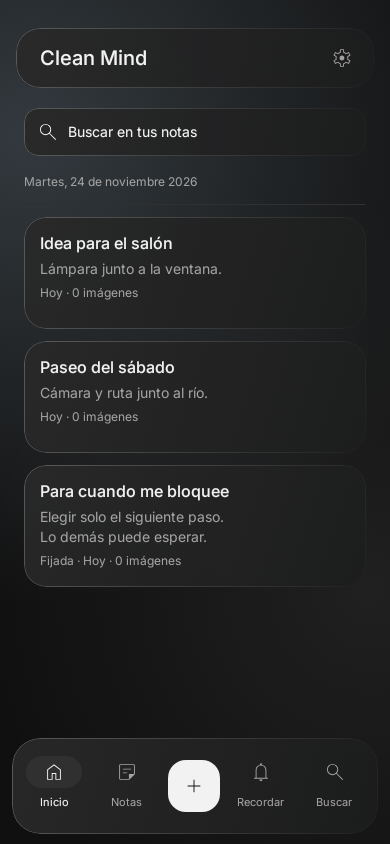
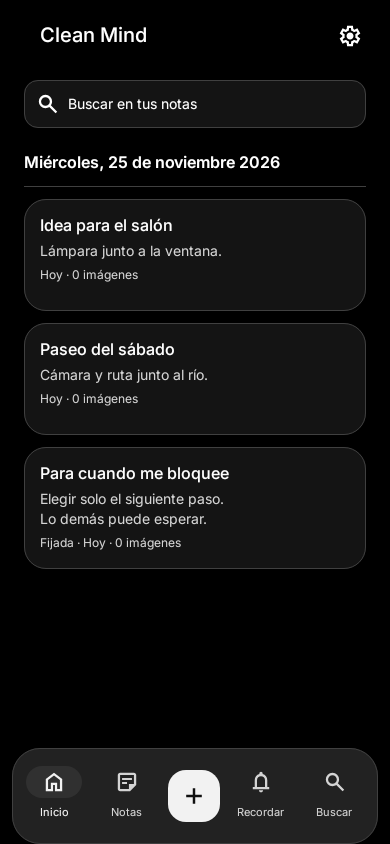
docs: update Material 3 guidance and UI previews

diff --git a/docs/pruebas.md b/docs/pruebas.md
@@ -46,9 +46,9 @@ Los filtros mostrados corresponden a las clases presentes en el repositorio.
 | `RichEditorTest` | 12 | Compatibilidad con texto antiguo, serialización, reapertura con negrita, deshacer/rehacer, limpieza parcial, listas, casillas, espaciado, color con selección conservada y estado de la barra y continuación/salida de listas con Intro, subtítulos y conservación de metadatos al deshacer y disponibilidad del campo nativo para accesibilidad. |
 | `ExampleUnitTest` | 1 | Prueba aritmética de ejemplo del proyecto; no valida funcionalidad de Clean Mind. |
 | `ReminderExportTest` | 5 | Repetición y serialización, programación/recuperación/cancelación de alarmas, TXT UTF-8 y paginación visual de exportación. |
-| `DesignUiTest` | 14 | Capturas locales, privacidad de previews, compartir con pulsación larga, búsqueda/cuadrícula, concentración, completado, ajustes, selección de fecha/hora y formulario independiente con confirmación al descartar y filtrado/movimiento de notas entre carpetas y exclusión de Volver en destinos ocultos, carpetas en cuadrícula y ausencia de búsqueda en Notas y botones del editor sin palabras partidas ni truncadas a 320 dp con fuente 1.35. |
+| `DesignUiTest` | 15 | Capturas locales, privacidad de previews, compartir con pulsación larga, búsqueda/cuadrícula, concentración, completado, ajustes, selección de fecha/hora y formulario independiente con confirmación al descartar y filtrado/movimiento de notas entre carpetas y exclusión de Volver en destinos ocultos, carpetas en cuadrícula y ausencia de búsqueda en Notas y botones del editor sin palabras partidas ni truncadas a 320 dp con fuente 1.35; ocultación/reaparición de la cabecera con scroll y acceso a Crear mientras está oculta. |
 
-Total actual: **68 pruebas locales**, de las cuales una es el ejemplo aritmético original. Esta cifra describe la suite actual y debe revisarse al añadir o retirar casos; no es un porcentaje de cobertura de código.
+Total actual: **69 pruebas locales**, de las cuales una es el ejemplo aritmético original. Esta cifra describe la suite actual y debe revisarse al añadir o retirar casos; no es un porcentaje de cobertura de código.
 
 Las pruebas de ViewModel usan `kotlinx-coroutines-test` para controlar la ejecución y el tiempo virtual. `FakeNoteRepository` permite simular lentitud, errores y cambios observables.
 
@@ -67,7 +67,7 @@ Las carpetas `build/` contienen salidas generadas. No forman parte de la documen
 
 ## Estado conocido
 
-La última ejecución local de verificación de código terminó con compilación debug correcta, lint sin errores y 68 pruebas locales superadas, sin fallos ni casos omitidos. Lint conserva avisos sobre versiones de dependencias y recursos.
+La última ejecución local de verificación de código terminó con compilación debug correcta, lint sin errores y 69 pruebas locales superadas, sin fallos ni casos omitidos. Lint conserva avisos sobre versiones de dependencias y recursos.
 
 La comprobación de formato de Android Studio terminó con 101 archivos revisados y conformes al estilo compartido.
 
@@ -151,3 +151,13 @@ Comprobaciones realizadas:
 - Limpieza de la nota, carpeta, aviso, adjuntos, imagen de galería, copias y exportaciones temporales, además del APK de pruebas. La comparación final conserva idénticos los cuatro registros originales y mantiene exactamente las seis notas científicas. No aparecen crashes ni ANR del paquete en los registros conservados durante la validación. El teléfono queda en Inicio, con su tema Oscuro y sus preferencias de pantalla restauradas.
 
 La compilación debug y release, lint debug y release, las 68 pruebas locales y la repetición final de las dos instrumentadas han pasado. El APK release continúa sin contener el archivo científico de desarrollo.
+
+## Material 3 y contraste · 25 de noviembre de 2026
+
+La revisión adopta la alternativa Material 3 pedida por el usuario. Se retiraron Haze y los efectos de cristal simulados. La compilación debug/release y lint de ambas variantes finalizaron correctamente, con las **69 pruebas locales** superadas. La nueva regresión recorre una agenda larga, comprueba que la cabecera se oculta y reaparece y conserva visible la acción Crear.
+
+En el realme RMX3370, API 33, se revisaron el fondo negro uniforme, el contraste de texto, la fecha de la agenda, la cabecera al desplazar y la permanencia de la barra inferior. Se eliminó un recorte redundante en las superficies que interfería con su dibujo en hardware. La franja de estado protege el reloj al pasar contenido por debajo.
+
+Se abrieron y cerraron las hojas de creación, carpetas, formato e imágenes. Su contenedor se prolonga hasta el borde inferior, cubriendo el área de navegación en lugar de dejar ver la barra de la app. Se comprobó también el tema claro y se restauró la preferencia previa Oscuro. Esta revisión física utiliza navegación por gestos; no se cambió la configuración de navegación del teléfono.
+
+La comparación final conservó idénticos los 11 registros de notas y recordatorios y la carpeta que había al comenzar esta revisión. Las capturas de `ui-preview/` se regeneraron con datos sintéticos; las capturas del dispositivo y sus copias de datos se conservan solo como material privado local.

diff --git a/docs/glass-ui.md b/docs/glass-ui.md
@@ -1,11 +1,13 @@
-# Cristal y superficies
+# Superficies y contraste de Material 3
 
-La UI usa un material compartido en `GlassMaterial.kt`: desenfoque del fondo, tinte neutro, reflejo suave, borde de luz y sombra contenida. La paleta conserva el acento azul acero. Texto e iconos se dibujan encima del material, sin desenfoque ni transparencia de lectura.
+La revisión del 25 de noviembre de 2026 adopta la alternativa Material 3 solicitada por el usuario. Sustituye el acabado de cristal anterior: se retiran Haze, la captura de fondos, los reflejos, el ruido y los degradados decorativos. Las superficies no se presentan como una reproducción del material de iOS.
 
-`GlassScene` captura una decoración estática de fondo. Las tarjetas y opciones solo toman esa capa ambiental; las barras flotantes del cuaderno pueden captar además el contenido que pasa detrás. El desenfoque no introduce animaciones permanentes ni captura fotografías o ventanas externas a la app.
+`AppSurfaces.kt` centraliza los contenedores tonales y las hojas inferiores. El tema oscuro utiliza un fondo uniforme `#000000`, texto principal blanco y texto secundario gris claro. El tema claro conserva sus superficies claras y texto oscuro. Los estados seleccionados mantienen el acento azul acero.
 
-Se utiliza Haze 1.6.10, compatible con la versión de Kotlin/Compose del proyecto. Las versiones nuevas de Haze requieren una plataforma de compilación posterior; este cambio visual no actualiza la arquitectura ni el SDK. Referencias: [uso y estilos de Haze 1.6.10](https://github.com/chrisbanes/haze/blob/1.6.10/docs/usage.md), [versión de la biblioteca](https://github.com/chrisbanes/haze/tree/1.6.10).
+Las tarjetas emplean `surfaceContainerLow`, las barras inferiores `surfaceContainer` y los estados seleccionados `tertiaryContainer`. Los límites usan los roles de contorno del tema. Los colores se resuelven como superficies Material 3 y no como transparencias que varíen el contraste del texto según el contenido situado detrás.
 
-El desenfoque se activa desde API 32 cuando la vista tiene aceleración gráfica. En versiones anteriores, vistas de previsualización y renderizado sin GPU, se usa una superficie translúcida con los mismos bordes y contraste. Las capturas JVM de `DesignUiTest` seleccionan explícitamente este acabado porque su Canvas de bitmap no implementa el pipeline gráfico de Android; el desenfoque real requiere comprobación en hardware. Tras recuperar la conexión USB, se comprobó también el cristal acelerado en el realme RMX3370, API 33, con temas claro y oscuro, navegación y hojas inferiores. Véase [Pruebas](pruebas.md).
+La cabecera del cuaderno es un `TopAppBar` transparente con desplazamiento `enterAlways`. La lista dibuja a lo largo de la ventana y aplica la separación inicial como `contentPadding`, de modo que su viewport no termina bruscamente bajo la barra. La franja de estado mantiene el color uniforme del tema para proteger la lectura del reloj. Al cambiar de pestaña se muestra de nuevo la cabecera. La fecha de cada grupo conserva su semántica de encabezado y utiliza 16 sp y peso seminegrita.
 
-Las hojas inferiores comparten `GlassBottomSheet`. El material está dentro del contenido que desplaza Material 3, para que su recorte no interfiera con arrastre, gestos o zonas pulsables. Las superficies transparentes heredan explícitamente el color de texto del tema.
+Todas las hojas inferiores de la app pasan por `AppBottomSheet`. El propio `ModalBottomSheet` pinta su contenedor, incluida la separación de navegación del sistema. Así no queda una franja transparente que deje ver la barra de la app por debajo. Se conserva el manejo de insets de Material 3 y se desactiva el scrim adicional de contraste de navegación en la ventana de la hoja desde API 29.
+
+Referencias oficiales: [roles de color](https://m3.material.io/styles/color/the-color-system), [barras y desplazamiento](https://developer.android.com/develop/ui/compose/components/app-bars), [insets de Material 3](https://developer.android.com/develop/ui/compose/system/material-insets) y [protección de barras del sistema](https://developer.android.com/develop/ui/compose/system/system-bars).

diff --git a/docs/figma-ui.md b/docs/figma-ui.md
@@ -58,7 +58,7 @@ Una notificación puede pertenecer a una nota normal o a un recordatorio explíc
 
 `DesignUiTest` utiliza Compose y Robolectric con gráficos nativos, sin teléfono ni emulador. Comprueba ocultación del cuerpo, pulsación larga, búsqueda/cuadrícula, entrada/salida de concentración, completar sin eliminar, ajustes y selección de fecha/hora. Las capturas se generan en `/tmp/cleanmind-ui-*.png`; una selección está en [ui-preview](ui-preview/).
 
-La suite consta de 68 pruebas locales y dos pruebas instrumentadas. Además de los flujos comprobados anteriormente en Xiaomi, en el realme RMX3370 se verificaron cristal acelerado, carpetas, edición, imágenes de galería/cámara, portapapeles nativo, notificación en segundo plano y escritura SAF de TXT/PDF y copias automáticas. Consulta [Pruebas](pruebas.md) para el alcance y los casos pendientes.
+La suite consta de 69 pruebas locales y dos pruebas instrumentadas. Además de los flujos comprobados anteriormente en Xiaomi, en el realme RMX3370 se verificaron cristal acelerado, carpetas, edición, imágenes de galería/cámara, portapapeles nativo, notificación en segundo plano y escritura SAF de TXT/PDF y copias automáticas. Consulta [Pruebas](pruebas.md) para el alcance y los casos pendientes.
 
 
 ## Ajustes solicitados el 24 de noviembre
@@ -71,4 +71,4 @@ La revisión posterior simplifica los recordatorios independientes en tareas con
 
 Las carpetas, el arranque monocromo y las transiciones se incorporan por las nuevas peticiones del usuario y amplían la referencia original. Consulta [Carpetas](carpetas.md) y [Movimiento y arranque](movimiento.md).
 
-La UI de cristal y las carpetas en cuadrícula son cambios posteriores pedidos por el usuario. Notas ya no incorpora una búsqueda local; la búsqueda global continúa en su pestaña.
+Las carpetas en cuadrícula son un cambio posterior pedido por el usuario. El 25 de noviembre, el acabado de cristal se sustituyó por la alternativa Material 3: fondo negro uniforme en oscuro, contraste alto, cabecera transparente con scroll y hojas continuas hasta el área de navegación. Notas ya no incorpora una búsqueda local; la búsqueda global continúa en su pestaña.

diff --git a/docs/arquitectura.md b/docs/arquitectura.md
@@ -181,4 +181,4 @@ La agenda de Inicio se presenta con `AgendaDayGroup`, agrupando por `Note.creati
 
 Las carpetas usan la misma capa de datos, con `FolderEntity` y una clave externa de nota. Su operación expone carga, error y revisión de persistencia; las hojas solo confirman al completarse la escritura. `AppMotion` centraliza las transiciones y el contenedor guardable de pestañas conserva el scroll durante el cambio de vista. Consulta [Carpetas](carpetas.md) y [Movimiento](movimiento.md).
 
-`GlassScene` y `glassMaterial` centralizan la captura del fondo y el acabado visual. Las carpetas y las notas comparten una cuadrícula perezosa con spans distintos, y lista/cuadrícula usan contenedores separados durante el fundido. La colección científica se inicializa desde una implementación exclusiva de debug; el código release no añade ejemplos.
+`AppSurfaces.kt` centraliza las superficies tonales Material 3 y las hojas inferiores. El fondo se dibuja uniformemente desde el tema; ya no se captura ni se desenfoca mediante Haze. Las carpetas y las notas comparten una cuadrícula perezosa con spans distintos, y lista/cuadrícula usan contenedores separados durante el fundido. La colección científica se inicializa desde una implementación exclusiva de debug; el código release no añade ejemplos.

diff --git a/docs/cambios-clean-mind.md b/docs/cambios-clean-mind.md
@@ -29,3 +29,7 @@ Las instrucciones de formato están en [Desarrollo](desarrollo.md#formato-compar
 Las ampliaciones posteriores de carpetas, arranque y transiciones se documentan en [Carpetas](carpetas.md) y [Movimiento](movimiento.md).
 
 La revisión de cristal, cuadrícula y colección científica está en [Cristal](glass-ui.md) y [Ciencia breve](ciencia-breve.md). Tras recuperar ADB se verificó también la actualización en el realme, el cristal acelerado, las notas científicas, imágenes, avisos y exportación SAF; se corrigieron la accesibilidad del cuerpo nativo del editor y la lectura de los botones al ampliar el texto del sistema.
+
+## Material 3 · 25 de noviembre
+
+Se adopta la alternativa Material 3 solicitada para sustituir el cristal anterior. Fondo negro uniforme en oscuro, texto más contrastado, contenedores tonales, cabecera transparente con desplazamiento y protección del reloj, hojas inferiores continuas hasta el área de navegación y fecha de agenda de 16 sp en seminegrita. Haze deja de ser una dependencia. Compilación y lint de ambas variantes y 69 pruebas locales correctas; revisión visual en realme con tema claro y oscuro.

diff --git a/README.md b/README.md
@@ -14,7 +14,7 @@ La interfaz está construida con Jetpack Compose y Material 3. La arquitectura u
 - Crear recordatorios con formulario propio de tarea, fecha y hora y guardado explícito.
 - Compartir texto mediante el selector de aplicaciones de Android.
 - Elegir un tema claro, oscuro o vinculado al dispositivo.
-- Arranque monocromo, [superficies de cristal](docs/glass-ui.md) y transiciones breves entre pantallas, pestañas y herramientas.
+- Arranque monocromo, [superficies Material 3](docs/glass-ui.md) y transiciones breves entre pantallas, pestañas y herramientas.
 - Conservar el tema y restaurar determinados estados de navegación y edición.
 
 Los recordatorios permiten notificaciones configurables, repetición y posposición. Se pueden guardar y compartir TXT/PDF y mantener copias TXT en una carpeta elegida. La app no incluye cuentas, sincronización propia, restauración de copias completas ni papelera. Consulta los detalles en la [guía de uso](docs/guia-de-uso.md).

diff --git a/docs/README.md b/docs/README.md
@@ -18,7 +18,7 @@ Consulta también [Cambios de Clean Mind](cambios-clean-mind.md) para el estilo 
 
 Consulta [Carpetas](carpetas.md) para organización y migraciones, y [Movimiento y arranque](movimiento.md) para las transiciones y la splash monocroma.
 
-Consulta [Cristal y superficies](glass-ui.md) para el material compartido y [Ciencia breve](ciencia-breve.md) para las seis notas incluidas en la versión de desarrollo.
+Consulta [Superficies y contraste Material 3](glass-ui.md) para el material compartido y [Ciencia breve](ciencia-breve.md) para las seis notas incluidas en la versión de desarrollo.
 
 ## Fuentes de verdad
 
